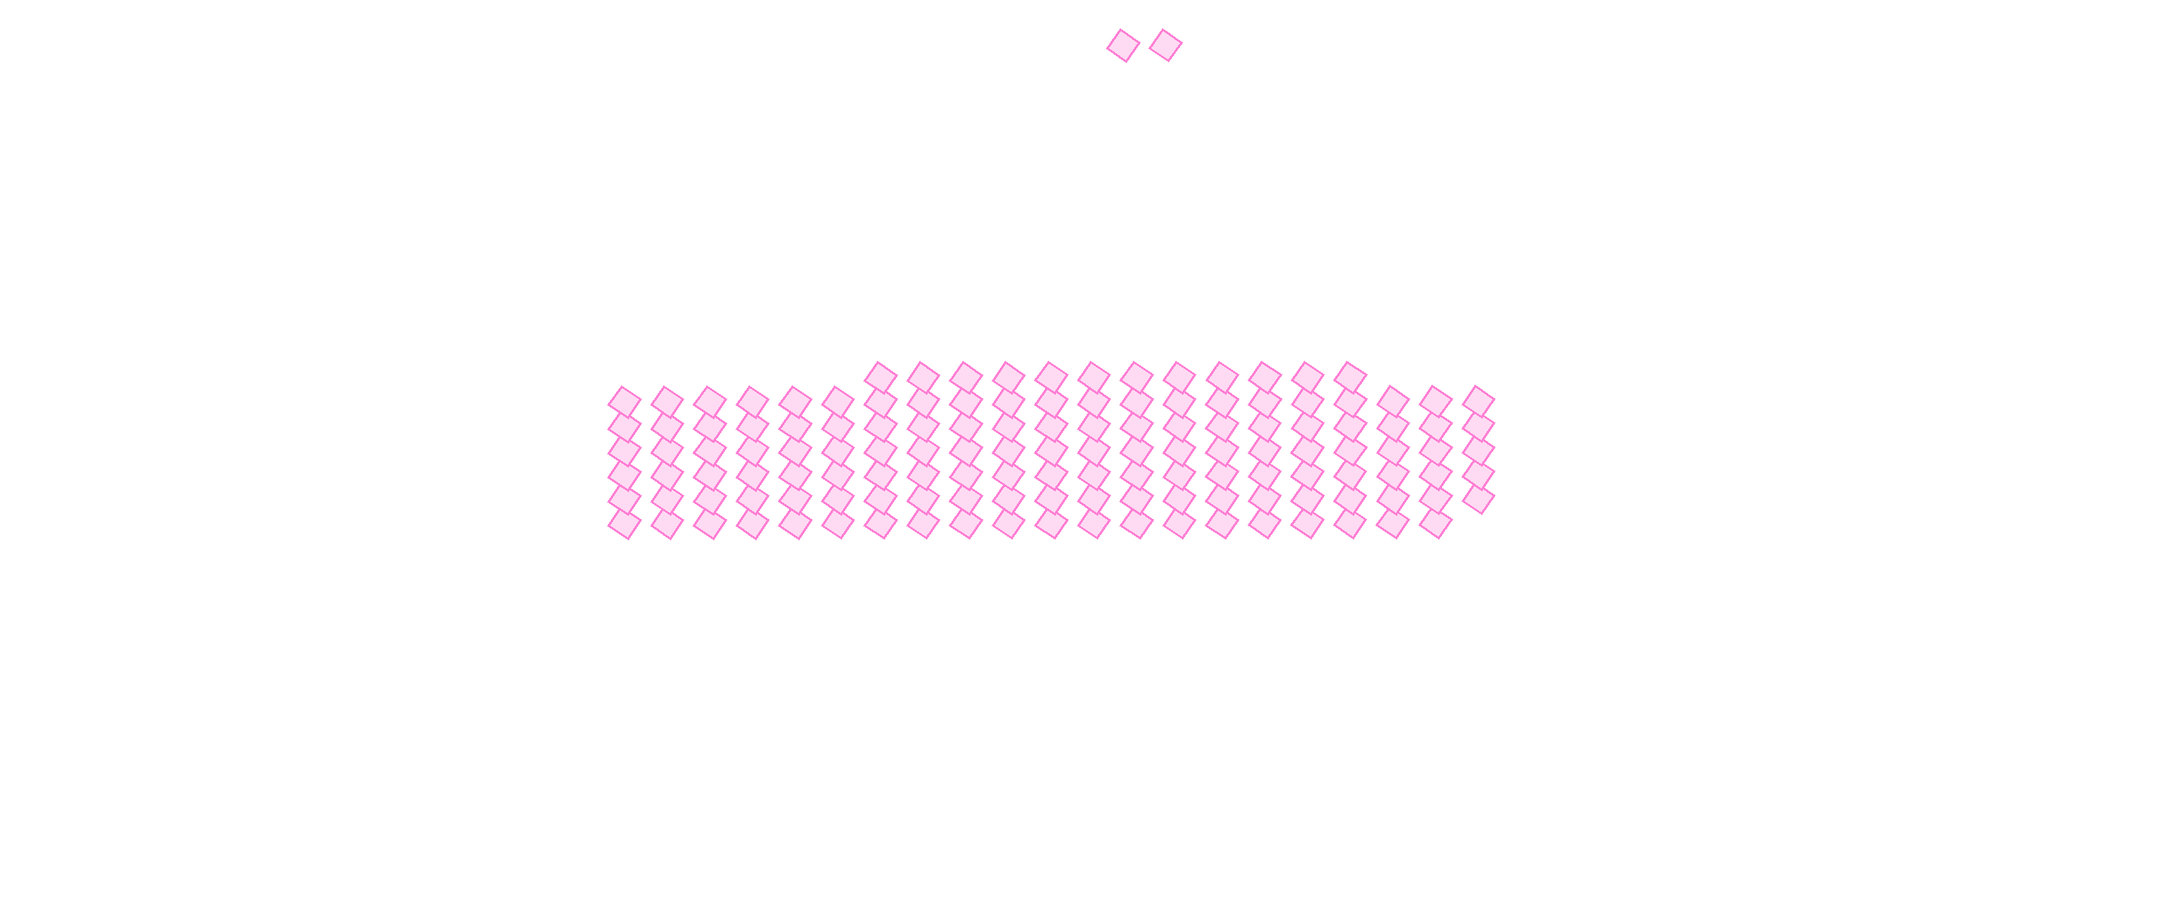
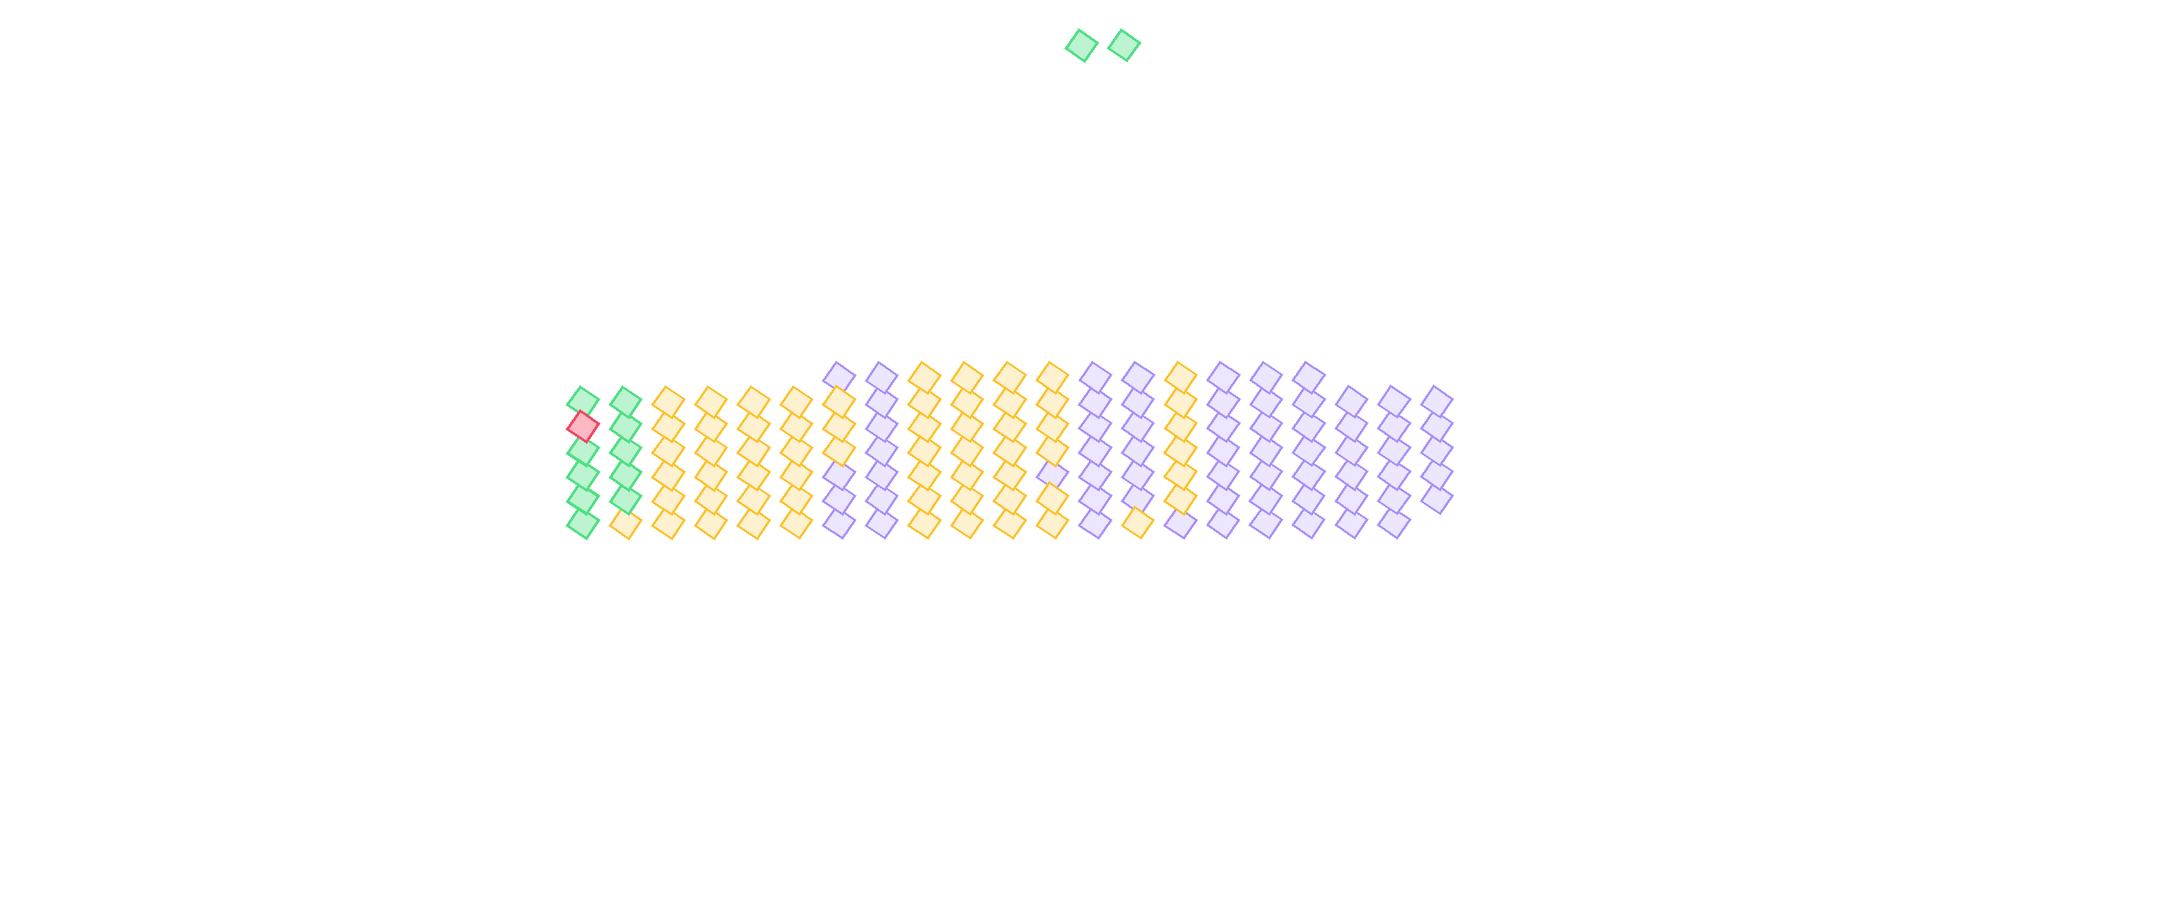
slide figures

Changed region(s): [[0.2489, 0.399, 0.6844, 0.5832], [0.4667, 0.0307, 0.56, 0.0614]]

diff --git a/colloquium_sep2026_granada.html b/colloquium_sep2026_granada.html
@@ -21,12 +21,12 @@
     .reveal .progress { color: rgb(0,200,200); }
     /* the theme tints every image with 12% white: invisible on white, a grey box on black */
     .reveal section img { background: none; }
-    /* the light "pill" captions keep their light ground so their dark swatch colours still read.
+    /* the light "pill" captions keep their light ground so their dark swatch colors still read.
        Matched on the inline background they already carry, so no slide markup had to change. */
     .reveal [style*="rgba(255,255,255,0.72)"],
     .reveal [style*="rgba(255,255,255,0.80)"] { color: #111; }
     /* hues picked for a white ground: lightened so they read on black without changing which
-       colour means what (RGB channel keys, and the by-cohort colouring on the title slide) */
+       color means what (RGB channel keys, and the by-cohort coloring on the title slide) */
     .reveal [style*="color:darkblue"] { color: #7fa8ff !important; }
     .reveal [style*="color:maroon"]   { color: #ff9a8a !important; }
     .reveal [style*="color:red"]      { color: #ff6b6b !important; }
@@ -866,7 +866,7 @@ $\sim$50% of CMZ SF occurs in the Sgr B2 cloud.
 <!-- Single-cloud SF relation with the CMZ on top.  Built by
      colloquium_assets/make_sf_relation_figure.py -- rerun that to rebuild as data arrive; the
      CMZ_CLOUDS table at the top of the script is the only thing to edit, and every row carries
-     its own derivation.  Local relation: Pokhrel+ 2021 Fig. 2a, tracks digitised by colour-key
+     its own derivation.  Local relation: Pokhrel+ 2021 Fig. 2a, tracks digitised by color-key
      into colloquium_assets/pokhrel2021_tracks.csv (10 of 12 clouds; Orion-A and Mon R2 are drawn
      in black/grey and cannot be separated from the axes).  Fit: slope 2.00, intercept -4.11,
      +/-1 and 2 sigma at 0.30 dex, fitted only below 676 Msun/pc^2 -- every CMZ point is an
@@ -903,7 +903,7 @@ $\sim$50% of CMZ SF occurs in the Sgr B2 cloud.
             <li> <b>Cross-check on which of the two is denser (Tang+ 2021, MNRAS 505, 2392, Fig. 10):</b>
                 their AzTEC+<i>Herschel</i> dust-SED fit gives one uniform N(H2) map of the whole CMZ at 7", so the Brick and Cloud E/F are measured the <i>same way</i>.
                 Reading that map in matched R = 2.4 pc apertures: mean lg N(H2) = 22.90 for the Brick, 23.03 for cloud e and 23.01 for cloud f. <b>Cloud E/F is the denser of the two, by ~0.13 dex (~40%).</b>
-                That is the same ordering the Walker+ 2018 masses give (5.1e3 vs 6.0e3 Msun/pc^2, 0.07 dex), and by a slightly larger margin &mdash; so the separation plotted here is the conservative one. Both clouds saturate Tang's 10^23.4 colour scale over a few per cent of their area, so these are means, not peaks.
+                That is the same ordering the Walker+ 2018 masses give (5.1e3 vs 6.0e3 Msun/pc^2, 0.07 dex), and by a slightly larger margin &mdash; so the separation plotted here is the conservative one. Both clouds saturate Tang's 10^23.4 color scale over a few per cent of their area, so these are means, not peaks.
             <li> <b>Two things I got wrong first, in case they come up:</b>
                 (i) I first took Sigma_gas from Barnes' intro prose, "~1e5 Msun, radii of ~1 pc". Multiplied together those give 3.2e4 Msun/pc^2, five to thirteen times too high, and put E/F to the <i>right</i> of most of Sgr B2. They are order-of-magnitude statements; Barnes never tabulate a cloud-scale mass or radius. Walker+ 2018 Table 1 is the number to use.
                 (ii) I first set the E/F ceiling from Barnes' "the core region could be up to ~600 Msun ... capable of forming one or several high-mass stars (~25 per cent efficiency)". That 150 Msun is star formation <i>potential</i>, not stars that exist &mdash; those cores are starless &mdash; and treating it as already formed put the limit inside the Sgr B2 cloud.
@@ -1077,7 +1077,12 @@ $\sim$50% of CMZ SF occurs in the Sgr B2 cloud.
 
 
 <section id=soon-nircam>
-    <div class=smaller2 style="position:absolute; top:10px; left:14px; z-index:20; background:rgba(255,255,255,0.72); padding:2px 8px; border-radius:4px;">The JWST Galactic Center Treasury Survey (GO 10678) &mdash; NIRCam</div>
+    <div class=smaller2 style="position:absolute; top:10px; left:14px; z-index:20; background:rgba(255,255,255,0.72); padding:2px 8px; border-radius:4px;">The JWST Galactic Center Treasury Survey (GO 10678) &mdash; NIRCam: <b>running now</b></div>
+    <div class=smaller3 style="position:absolute; top:50px; right:4px; z-index:20; background:rgba(55,55,55,0.72); padding:2px 8px; border-radius:4px; text-align:right;"> 
+        <a href="https://starformation.astro.ufl.edu/avm_images/jwst_gc_aladin.html">starformation.astro.ufl.edu/avm_images/jwst_gc_aladin.html</a>
+        <br>
+        <a href="https://starformation.astro.ufl.edu/jwst-gc/">starformation.astro.ufl.edu/jwst-gc</a>
+    </div>
     <div class=smaller2 style="position:absolute; top:60px; left:44px; z-index:20; background:rgba(255,255,255,0.72); padding:2px 8px; border-radius:4px;">
         <ul style='padding-left:15px; margin-left:0px; margin-bottom:0px;'>
             <li style='margin-bottom:2px; margin-top:2px;'> Stellar populations: star formation history
@@ -1086,11 +1091,16 @@ $\sim$50% of CMZ SF occurs in the Sgr B2 cloud.
         </ul>
     </div>
     <img style="margin:0; background:none; max-width:none; max-height:none; position:absolute; left:-565.41px; top:-118.72px; width:2154.82px; z-index:1;" src="assets/cmz/bg_spitzer_fullbleed.jpg"><img style="margin:0; background:none; max-width:none; max-height:none; position:absolute; left:-424.7px; top:-118.72px; width:2014.11px; z-index:2;" src="assets/cmz/layer_ashrgb_fullbleed.jpg"><img style="margin:0; background:none; max-width:none; max-height:none; position:absolute; left:-565.41px; top:-118.72px; width:2154.82px; z-index:3;" src="assets/cmz/layer_acesmustang_fullbleed.png"><img style="margin:0; background:none; max-width:none; max-height:none; position:absolute; left:-565.41px; top:-118.72px; width:2154.82px; z-index:5;" src="assets/cmz/fp_nircam_fullbleed.png">
-    <div class=smaller3 style="position:absolute; bottom:10px; left:14px; z-index:20; background:rgba(255,255,255,0.72); padding:2px 8px; border-radius:4px;"><span style="color:#cc7a00">&#9632; JWST NIRCam (GO 10678)</span></div>
+    <div class=smaller3 style="position:absolute; bottom:10px; left:14px; z-index:20; background:rgba(255,255,255,0.72); padding:2px 8px; border-radius:4px;"><span style="color:#2f9e57">&#9632; observed (12)</span> &nbsp; <span style="color:#b8860b">&#9632; scheduled (62)</span> &nbsp; <span style="color:#d61f3c">&#9632; delayed (1)</span> &nbsp; <span style="color:#2a8ba6">&#9632; awaiting a date (64)</span> &nbsp; <span style="color:#444">status 2026-09-12</span></div>
 </section>
 
 <section id=soon-miri>
     <div class=smaller2 style="position:absolute; top:10px; left:14px; z-index:20; background:rgba(255,255,255,0.72); padding:2px 8px; border-radius:4px;">&hellip;and the same survey with MIRI</div>
+    <div class=smaller3 style="position:absolute; top:50px; right:4px; z-index:20; background:rgba(55,55,55,0.72); padding:2px 8px; border-radius:4px; text-align:right;"> 
+        <a href="https://starformation.astro.ufl.edu/avm_images/jwst_gc_aladin.html">starformation.astro.ufl.edu/avm_images/jwst_gc_aladin.html</a>
+        <br>
+        <a href="https://starformation.astro.ufl.edu/jwst-gc/">starformation.astro.ufl.edu/jwst-gc</a>
+    </div>
     <div class=smaller2 style="position:absolute; top:60px; left:44px; z-index:20; background:rgba(255,255,255,0.72); padding:2px 8px; border-radius:4px;">
         <ul style='padding-left:15px; margin-left:0px; margin-bottom:0px;'>
             <li style='margin-bottom:2px; margin-top:2px;'> YSO candidates
@@ -1099,7 +1109,91 @@ $\sim$50% of CMZ SF occurs in the Sgr B2 cloud.
     </div>
 
     <img style="margin:0; background:none; max-width:none; max-height:none; position:absolute; left:-565.41px; top:-118.72px; width:2154.82px; z-index:1;" src="assets/cmz/bg_spitzer_fullbleed.jpg"><img style="margin:0; background:none; max-width:none; max-height:none; position:absolute; left:-424.7px; top:-118.72px; width:2014.11px; z-index:2;" src="assets/cmz/layer_ashrgb_fullbleed.jpg"><img style="margin:0; background:none; max-width:none; max-height:none; position:absolute; left:-565.41px; top:-118.72px; width:2154.82px; z-index:3;" src="assets/cmz/layer_acesmustang_fullbleed.png"><img style="margin:0; background:none; max-width:none; max-height:none; position:absolute; left:-565.41px; top:-118.72px; width:2154.82px; z-index:5;" src="assets/cmz/fp_miri_fullbleed.png">
-    <div class=smaller3 style="position:absolute; bottom:10px; left:14px; z-index:20; background:rgba(255,255,255,0.72); padding:2px 8px; border-radius:4px;"><span style="color:#cc3399">&#9632; JWST MIRI (GO 10678)</span></div>
+    <div class=smaller3 style="position:absolute; bottom:10px; left:14px; z-index:20; background:rgba(255,255,255,0.72); padding:2px 8px; border-radius:4px;"><span style="color:#2f9e57">&#9632; observed (12)</span> &nbsp; <span style="color:#b8860b">&#9632; scheduled (62)</span> &nbsp; <span style="color:#d61f3c">&#9632; delayed (1)</span> &nbsp; <span style="color:#6d4fd0">&#9632; awaiting a date (64)</span> &nbsp; <span style="color:#444">status 2026-09-12</span></div>
+</section>
+
+<!-- The survey is actually running: these two slides carry the DATA, on the same full-bleed
+     layer stack and the same WCS grid as the "soon" frames above, so nothing shifts between
+     them.  Both the mosaics (treasury_*_fullbleed / treasury_panel_*) and the status colors
+     on the "soon" frames are generated by colloquium_assets/make_cmz_treasury_layers.py --
+     RE-RUN IT BEFORE THE TALK, the HiPS grow as observations land and the visit statuses move.
+     The panel is a fixed patch of sky (l +0.30..+0.87, b -0.21..+0.14, 1"/px) in the same
+     projection and orientation as the wide grid, so it needs no rotation and its placement
+     never has to be re-measured; box_treasury_start.png outlines that exact rectangle. -->
+<section id=now-nircam>
+    <div class=smaller2 style="position:absolute; top:10px; left:14px; z-index:20; background:rgba(255,255,255,0.72); padding:2px 8px; border-radius:4px;">Progress:</div>
+    <div class=smaller3 style="position:absolute; top:50px; right:4px; z-index:20; background:rgba(55,55,55,0.72); padding:2px 8px; border-radius:4px; text-align:right;"> 
+        <a href="https://starformation.astro.ufl.edu/avm_images/jwst_gc_aladin.html">starformation.astro.ufl.edu/avm_images/jwst_gc_aladin.html</a>
+        <br>
+        <a href="https://starformation.astro.ufl.edu/jwst-gc/">starformation.astro.ufl.edu/jwst-gc</a>
+    </div>
+    <div class=smaller2 style="position:absolute; top:60px; left:44px; max-width:52%; z-index:20; background:rgba(255,255,255,0.72); padding:2px 8px; border-radius:4px;">
+        <ul style='padding-left:15px; margin-left:0px; margin-bottom:0px;'>
+            <li style='margin-bottom:2px; margin-top:2px;'> 12 of 139 pointings observed
+            <li style='margin-bottom:2px; margin-top:2px;'> F212N + F480M, opened at $\ell = +0.7$
+            <li style='margin-bottom:2px; margin-top:2px;'> working west, $\sim$7 pointings a night
+        </ul>
+    </div>
+    <img style="margin:0; background:none; max-width:none; max-height:none; position:absolute; left:-565.41px; top:-118.72px; width:2154.82px; z-index:1;" src="assets/cmz/bg_spitzer_fullbleed.jpg"><img style="margin:0; background:none; max-width:none; max-height:none; position:absolute; left:-424.7px; top:-118.72px; width:2014.11px; z-index:2;" src="assets/cmz/layer_ashrgb_fullbleed.jpg"><img style="margin:0; background:none; max-width:none; max-height:none; position:absolute; left:-565.41px; top:-118.72px; width:2154.82px; z-index:3;" src="assets/cmz/layer_acesmustang_fullbleed.png"><img style="margin:0; background:none; max-width:none; max-height:none; position:absolute; left:-565.41px; top:-118.72px; width:2154.82px; z-index:4;" src="assets/cmz/jwst_today_fullbleed.png"><img style="margin:0; background:none; max-width:none; max-height:none; position:absolute; left:-565.41px; top:-118.72px; width:2154.82px; z-index:5;" src="assets/cmz/treasury_nircam_fullbleed.png"><img style="margin:0; background:none; max-width:none; max-height:none; position:absolute; left:-565.41px; top:-118.72px; width:2154.82px; z-index:6;" src="assets/cmz/fp_done_nircam_fullbleed.png">
+    <img class="fragment" data-fragment-index="1" style="margin:0; background:none; max-width:none; max-height:none; position:absolute; left:-565.41px; top:-118.72px; width:2154.82px; z-index:11;" src="assets/cmz/box_treasury_start.png">
+    <div class="fragment" data-fragment-index="1" style="position:absolute; left:440px; top:400px; width:560px; height:343.8px; z-index:12; background:#03050a; outline:2px solid rgba(60,235,60,0.95);"><img style="margin:0; background:none; max-width:none; max-height:none; position:absolute; left:0px; top:0px; width:560px; height:343.8px;" src="assets/cmz/treasury_panel_nircam.png"></div>
+    <div class=smaller3 style="position:absolute; bottom:10px; left:14px; z-index:20; background:rgba(255,255,255,0.72); padding:2px 8px; border-radius:4px;"><span style="color:#2f9e57">&#9633; observed &mdash; NIRCam F212N/F480M</span> &nbsp; <span style="color:#444">mosaic of 2026-09-12, still growing</span></div>
+    <aside class="notes">
+        Built by colloquium_assets/make_cmz_treasury_layers.py, which is live in two ways and
+        should be re-run shortly before the talk: the mosaics come from the growing HiPS at
+        starformation.astro.ufl.edu/avm_images/jwst_gc_treasury_hips/ (NIRCam) and
+        .../jwst_gc_treasury_miri_hips/ (MIRI F770W parallel), and the footprint colors come
+        from the STScI visit status behind starformation.astro.ufl.edu/jwst-gc/monitor/.
+        As of 2026-09-12: 139 pointings, 12 observed (7 Executed, 3 Archived, 2 Collecting),
+        62 Scheduled, 64 Flight Ready, 1 Skipped (GC_136 -- i.e. delayed, it will be rescheduled).
+        Reduction lags the telescope: only 18% of the observed NIRCam area has made it into
+        the mosaic so far, so the colored footprints run ahead of the picture.
+        Caveat worth knowing but probably not worth saying: program 10678 has no offsets table
+        yet, so these tiles sit on the raw assign_wcs frame with no measured tie to VIRAC2/Gaia.
+        Positions are good to roughly a JWST pointing, not to a pixel.
+        The survey runs east to west in descending visit number -- it opened at l = +0.70 and
+        works down through +0.58, +0.51, +0.45 -- so the panel fills in from its left edge.
+        Ten of the twelve observed pointings are the block visible at l = +0.64/+0.70; the other
+        two (GC_138, GC_139) sit at b = +0.58, just above the top of this framing, so the slide
+        shows 10 outlines while the bullet says 12.
+    </aside>
+</section>
+
+<section id=now-miri>
+    <div class=smaller2 style="position:absolute; top:10px; left:14px; z-index:20; background:rgba(255,255,255,0.72); padding:2px 8px; border-radius:4px;">&hellip;and the MIRI parallel, ~6&prime; to the east</div>
+    <div class=smaller3 style="position:absolute; top:50px; right:4px; z-index:20; background:rgba(55,55,55,0.72); padding:2px 8px; border-radius:4px; text-align:right;"> 
+        <a href="https://starformation.astro.ufl.edu/avm_images/jwst_gc_aladin.html">starformation.astro.ufl.edu/avm_images/jwst_gc_aladin.html</a>
+        <br>
+        <a href="https://starformation.astro.ufl.edu/jwst-gc/">starformation.astro.ufl.edu/jwst-gc</a>
+    </div>
+    <div class=smaller2 style="position:absolute; top:60px; left:44px; max-width:52%; z-index:20; background:rgba(255,255,255,0.72); padding:2px 8px; border-radius:4px;">
+        <ul style='padding-left:15px; margin-left:0px; margin-bottom:0px;'>
+            <li style='margin-bottom:2px; margin-top:2px;'> F770W: PAH emission, warm dust
+        </ul>
+    </div>
+    <img style="margin:0; background:none; max-width:none; max-height:none; position:absolute; left:-565.41px; top:-118.72px; width:2154.82px; z-index:1;" src="assets/cmz/bg_spitzer_fullbleed.jpg"><img style="margin:0; background:none; max-width:none; max-height:none; position:absolute; left:-424.7px; top:-118.72px; width:2014.11px; z-index:2;" src="assets/cmz/layer_ashrgb_fullbleed.jpg"><img style="margin:0; background:none; max-width:none; max-height:none; position:absolute; left:-565.41px; top:-118.72px; width:2154.82px; z-index:3;" src="assets/cmz/layer_acesmustang_fullbleed.png"><img style="margin:0; background:none; max-width:none; max-height:none; position:absolute; left:-565.41px; top:-118.72px; width:2154.82px; z-index:4;" src="assets/cmz/jwst_today_fullbleed.png"><img style="margin:0; background:none; max-width:none; max-height:none; position:absolute; left:-565.41px; top:-118.72px; width:2154.82px; z-index:5;" src="assets/cmz/treasury_miri_fullbleed.png"><img style="margin:0; background:none; max-width:none; max-height:none; position:absolute; left:-565.41px; top:-118.72px; width:2154.82px; z-index:6;" src="assets/cmz/fp_done_miri_fullbleed.png">
+    <img class="fragment" data-fragment-index="1" style="margin:0; background:none; max-width:none; max-height:none; position:absolute; left:-565.41px; top:-118.72px; width:2154.82px; z-index:11;" src="assets/cmz/box_treasury_start.png">
+    <div class="fragment" data-fragment-index="1" style="position:absolute; left:440px; top:400px; width:560px; height:343.8px; z-index:12; background:#03050a; outline:2px solid rgba(60,235,60,0.95);"><img style="margin:0; background:none; max-width:none; max-height:none; position:absolute; left:0px; top:0px; width:560px; height:343.8px;" src="assets/cmz/treasury_panel_miri.png"></div>
+    <div class=smaller3 style="position:absolute; bottom:10px; left:14px; z-index:20; background:rgba(255,255,255,0.72); padding:2px 8px; border-radius:4px;"><span style="color:#2f9e57">&#9633; observed &mdash; MIRI F770W</span> &nbsp; <span style="color:#444">mosaic of 2026-09-12, still growing</span></div>
+    <aside class="notes">
+        Built by colloquium_assets/make_cmz_treasury_layers.py, which is live in two ways and
+        should be re-run shortly before the talk: the mosaics come from the growing HiPS at
+        starformation.astro.ufl.edu/avm_images/jwst_gc_treasury_hips/ (NIRCam) and
+        .../jwst_gc_treasury_miri_hips/ (MIRI F770W parallel), and the footprint colors come
+        from the STScI visit status behind starformation.astro.ufl.edu/jwst-gc/monitor/.
+        As of 2026-09-12: 139 pointings, 12 observed (7 Executed, 3 Archived, 2 Collecting),
+        62 Scheduled, 64 Flight Ready, 1 Skipped (GC_136 -- i.e. delayed, it will be rescheduled).
+        Reduction lags the telescope: only 34% of the observed MIRI area has made it into
+        the mosaic so far, so the colored footprints run ahead of the picture.
+        Caveat worth knowing but probably not worth saying: program 10678 has no offsets table
+        yet, so these tiles sit on the raw assign_wcs frame with no measured tie to VIRAC2/Gaia.
+        Positions are good to roughly a JWST pointing, not to a pixel.
+        The survey runs east to west in descending visit number -- it opened at l = +0.70 and
+        works down through +0.58, +0.51, +0.45 -- so the panel fills in from its left edge.
+        Ten of the twelve observed pointings are the block visible at l = +0.64/+0.70; the other
+        two (GC_138, GC_139) sit at b = +0.58, just above the top of this framing, so the slide
+        shows 10 outlines while the bullet says 12.
+    </aside>
 </section>
 
 <section id=soon-roman>
@@ -1317,7 +1411,7 @@ $\sim$50% of CMZ SF occurs in the Sgr B2 cloud.
     <video class="slideautostart" src="assets/cmz/DaniLipman_3DCMZ_150to200pc_tagged.mp4"
            muted loop playsinline
            style="margin:0; background:none; max-width:none; max-height:none; position:absolute; left:12px; top:78px; width:1000px; height:548px;"></video>
-    <div class=smaller3 style="position:absolute; bottom:6px; left:12px; color:#cfcfcf;">Dani Lipman (Battersby group) &mdash; inner-Galaxy simulation, gas colour-tagged by its true 3D position: face-on (top left), as we see it on the sky (bottom left), and in <i>l</i>&ndash;<i>v</i> (right)</div>
+    <div class=smaller3 style="position:absolute; bottom:6px; left:12px; color:#cfcfcf;">Dani Lipman (Battersby group) &mdash; inner-Galaxy simulation, gas color-tagged by its true 3D position: face-on (top left), as we see it on the sky (bottom left), and in <i>l</i>&ndash;<i>v</i> (right)</div>
 
     <aside class=notes>
         <ul>
@@ -1332,24 +1426,6 @@ $\sim$50% of CMZ SF occurs in the Sgr B2 cloud.
 <section>
 </section>
 
-<section>
-<div class=smaller>JWST has found new HII regions: <br>the SFR is higher than estimated from radio
-<div class=smaller2> (remember Sgr B2 already accounts for $\sim$50% of the CMZ SFR)</div>
-</div>
-    <img src="assets/Nazar/miri_mosaic_hii_labels.png" style='position: absolute;
-    left: -50px;
-    top: 172px;
-    rotate: -4.5deg;
-    scale: 0.975;
-  '>
-    <!-- old version <img src="assets/Nazar/RGB_770_480m410_405m410_withHII.png">-->
-    <div style="position: absolute; bottom: 10%; left: 8%; z-index: 10; text-align: left;" class=smaller2>
-        <span style="color:red">R=770</span><br> <span style="color:green">G=(480-[410-405])</span><br> <span style="color:blue">B=Brα</span>
-    </div>
-    <div style="position: absolute; bottom: 10%; right: 0%; z-index: 10; text-align: right; width:50%; color:rgb(0,214,214);" class=smaller2>
-        <span style='font-size:250%'>&#9632;</span> New HII regions
-    </div>
-</section>
 
 
 
